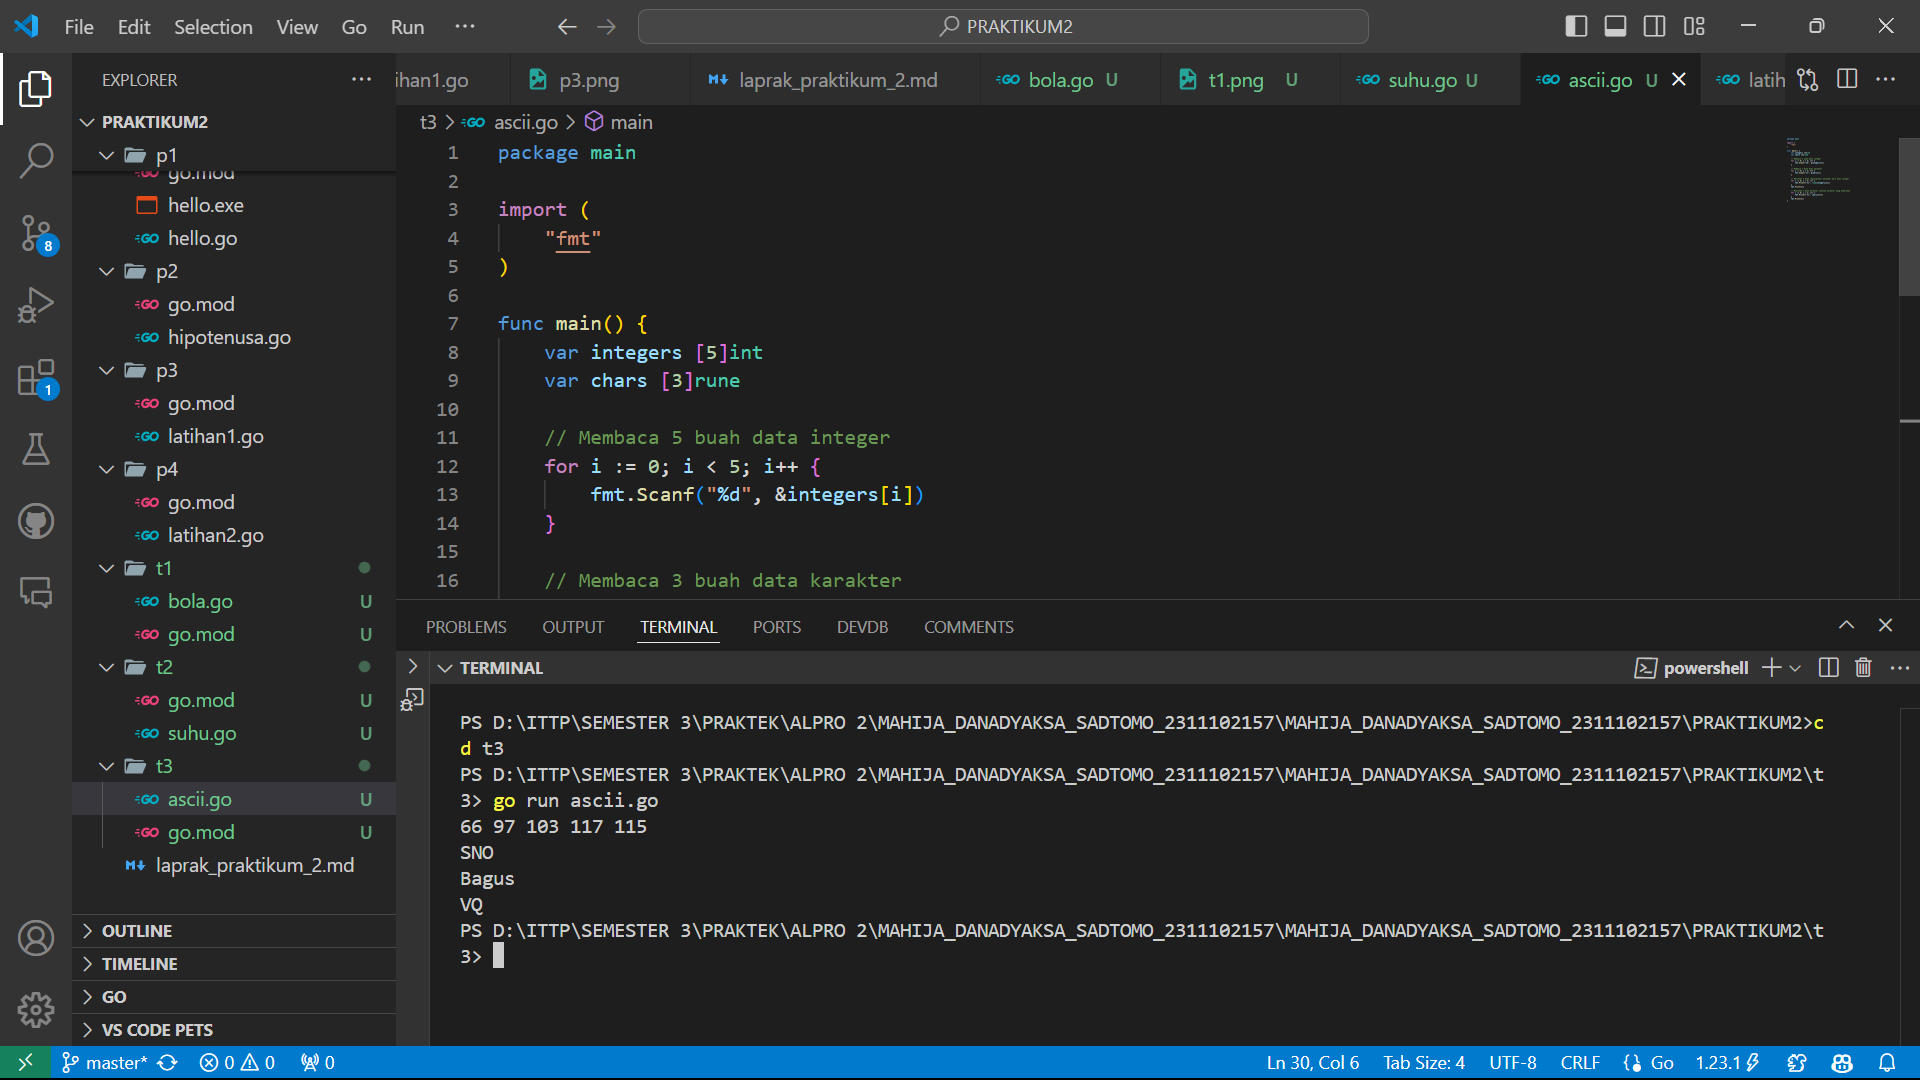
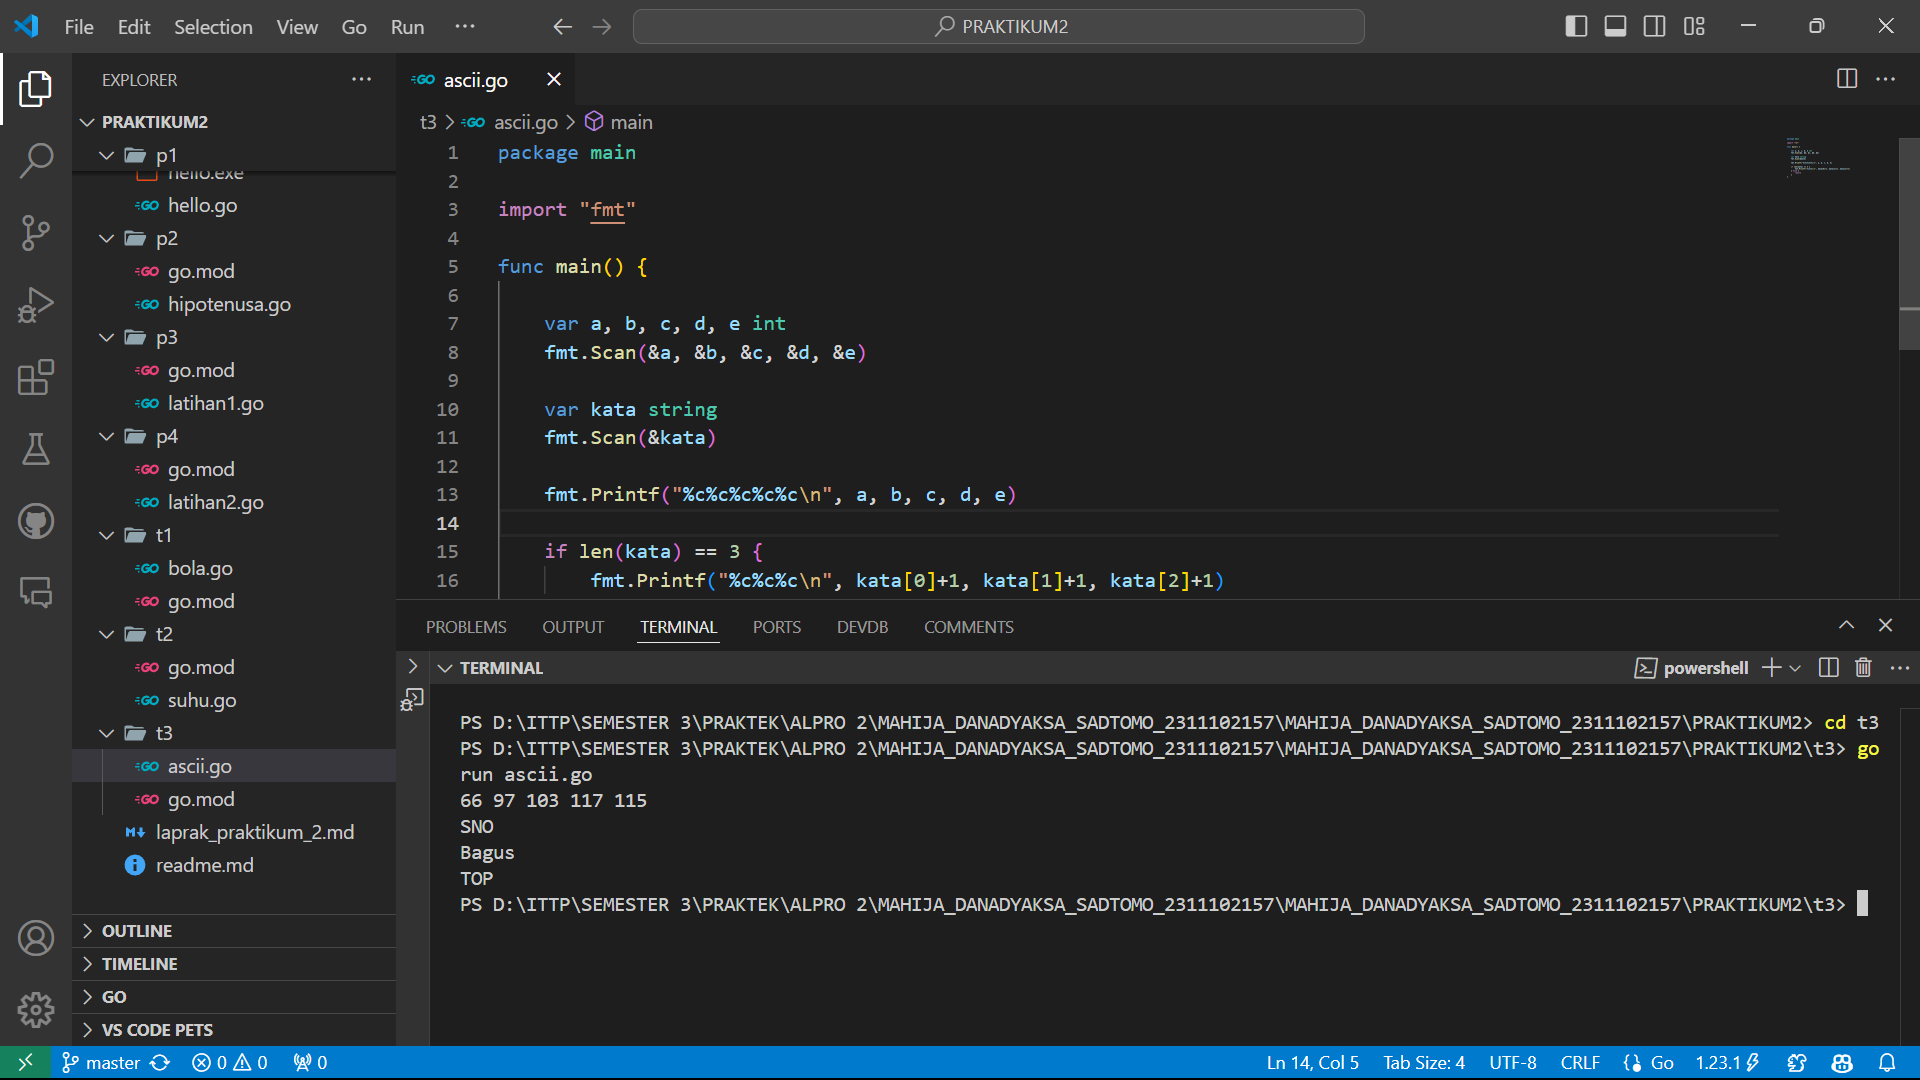
fix all

diff --git a/PRAKTIKUM2/laprak_praktikum_2.md b/PRAKTIKUM2/laprak_praktikum_2.md
@@ -160,31 +160,23 @@ func main() {
 ```go
 package main
 
-import (
-	"fmt"
-)
+import "fmt"
 
 func main() {
-	var integers [5]int
-	var chars [3]rune
 
-	for i := 0; i < 5; i++ {
-		fmt.Scanf("%d", &integers[i])
+	var a, b, c, d, e int
+	fmt.Scan(&a, &b, &c, &d, &e)
+	
+	var kata string
+	fmt.Scan(&kata)
+	
+	fmt.Printf("%c%c%c%c%c\n", a, b, c, d, e)
+	
+	if len(kata) == 3 {
+		fmt.Printf("%c%c%c\n", kata[0]+1, kata[1]+1, kata[2]+1)
+	} else {
+		return
 	}
-
-	for i := 0; i < 3; i++ {
-		fmt.Scanf("%c", &chars[i])
-	}
-
-	for i := 0; i < 5; i++ {
-		fmt.Printf("%c", rune(integers[i]))
-	}
-	fmt.Println()
-
-	for i := 0; i < 3; i++ {
-		fmt.Printf("%c", chars[i]+3)
-	}
-	fmt.Println()
 }
 ```
 ![hello world!](assets/t3.png)

diff --git a/PRAKTIKUM2/readme.md b/PRAKTIKUM2/readme.md
@@ -160,31 +160,23 @@ func main() {
 ```go
 package main
 
-import (
-	"fmt"
-)
+import "fmt"
 
 func main() {
-	var integers [5]int
-	var chars [3]rune
 
-	for i := 0; i < 5; i++ {
-		fmt.Scanf("%d", &integers[i])
+	var a, b, c, d, e int
+	fmt.Scan(&a, &b, &c, &d, &e)
+	
+	var kata string
+	fmt.Scan(&kata)
+	
+	fmt.Printf("%c%c%c%c%c\n", a, b, c, d, e)
+	
+	if len(kata) == 3 {
+		fmt.Printf("%c%c%c\n", kata[0]+1, kata[1]+1, kata[2]+1)
+	} else {
+		return
 	}
-
-	for i := 0; i < 3; i++ {
-		fmt.Scanf("%c", &chars[i])
-	}
-
-	for i := 0; i < 5; i++ {
-		fmt.Printf("%c", rune(integers[i]))
-	}
-	fmt.Println()
-
-	for i := 0; i < 3; i++ {
-		fmt.Printf("%c", chars[i]+3)
-	}
-	fmt.Println()
 }
 ```
 ![hello world!](assets/t3.png)
